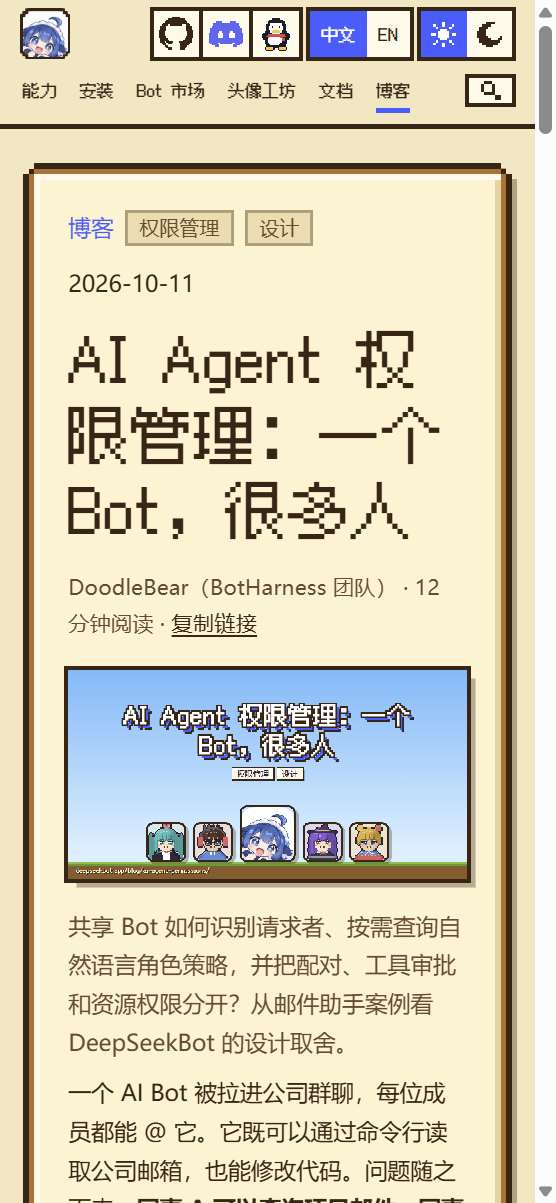
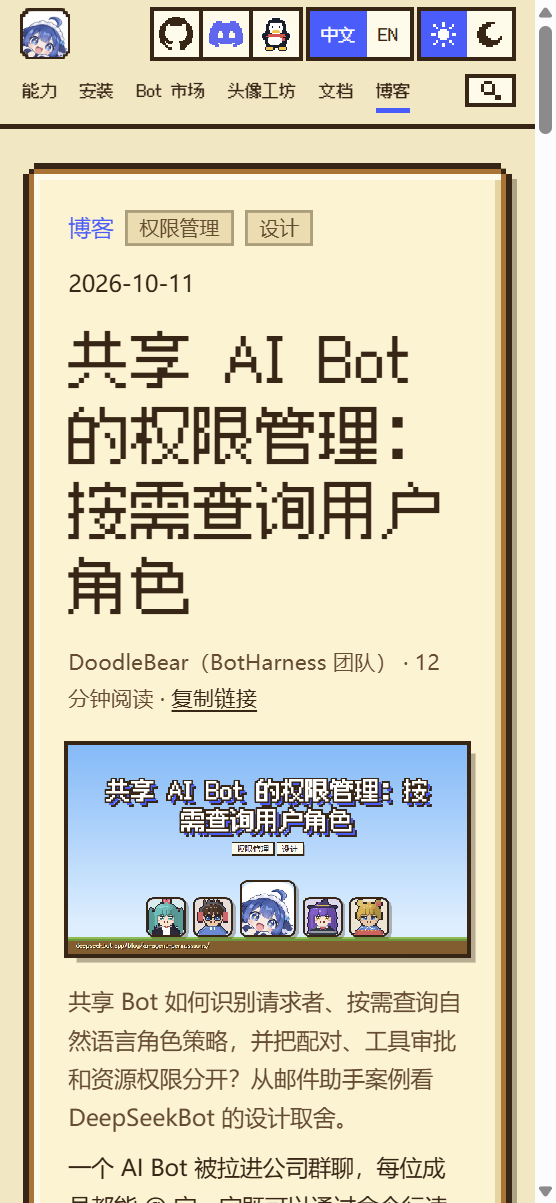
State the shared-bot permissions topic directly in blog titles
Issue: #68

Agent-Task: codex/local/01a12628-d198-7cb3-ba32-a6fe5628a4e1

Changed region(s): [[0.0917, 0.2768, 0.8561, 1.0]]

diff --git a/content/blog/en/ai-agent-permissions.md b/content/blog/en/ai-agent-permissions.md
@@ -1,6 +1,6 @@
 ---
 {
-  "title": "AI Agent Permissions for Shared Bots",
+  "title": "Shared AI Bot Permissions: On-Demand Role Lookup",
   "description": "Design permissions for a bot serving many people: trusted identity, on-demand natural-language roles, pairing, tool approvals and execution boundaries.",
   "date": "2026-10-11",
   "tags": ["Permissions", "Design"]
@@ -9,7 +9,7 @@
 
 An AI bot joins a company chat. Everyone can mention it. It can read company email through a CLI and modify code through its shell. That raises a question: **Alice may query project emails; Bob should only discuss code. If they make the same mail request, how does the bot know whom to help and whom to refuse?**
 
-Permissions for a shared AI agent need to answer four questions:
+AI agent permissions in shared chats need to answer four questions:
 
 1. **Who may initiate work?** Identify the actual requester and check whether they may talk to the bot.
 2. **How should the bot handle this person's request?** Read the role's behavior policy.

diff --git a/content/blog/zh/ai-agent-permissions.md b/content/blog/zh/ai-agent-permissions.md
@@ -1,6 +1,6 @@
 ---
 {
-  "title": "AI Agent 权限管理：一个 Bot，很多人",
+  "title": "共享 AI Bot 的权限管理：按需查询用户角色",
   "description": "共享 Bot 如何识别请求者、按需查询自然语言角色策略，并把配对、工具审批和资源权限分开？从邮件助手案例看 DeepSeekBot 的设计取舍。",
   "date": "2026-10-11",
   "tags": ["权限管理", "设计"]
